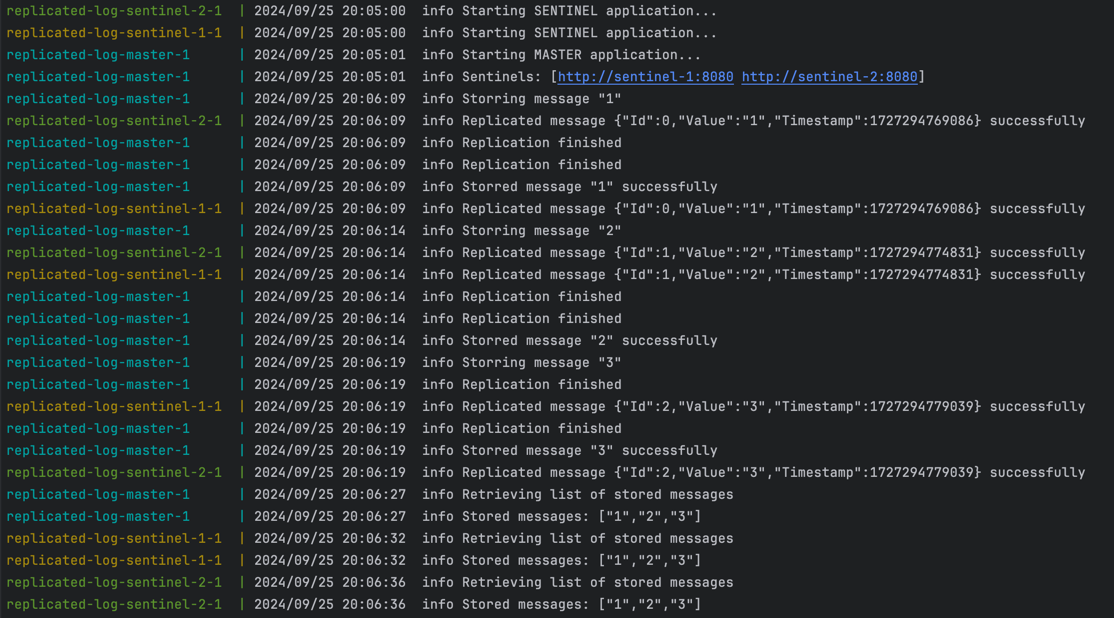
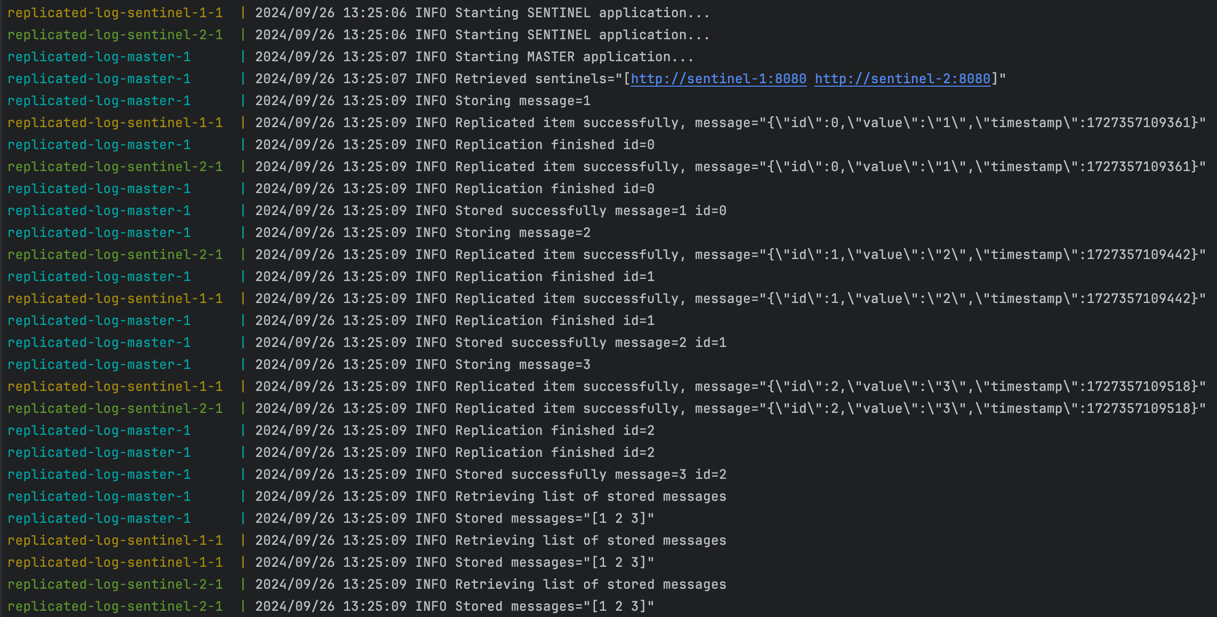
migrated to standard slog

Changed region(s): [[0.0, 0.0, 1.0, 1.0]]

diff --git a/sentinel/router.go b/sentinel/router.go
@@ -2,8 +2,8 @@ package sentinel
 
 import (
 	"encoding/json"
-	"github.com/apex/log"
 	"github.com/gin-gonic/gin"
+	"log/slog"
 )
 
 type Request struct {
@@ -23,19 +23,17 @@ func replicateHandler(c *gin.Context) {
 	err := c.BindJSON(&request)
 
 	if err != nil {
-		log.Errorf("Error while decoding body: %s", err)
+		slog.Error("Error while decoding body.", "error", err)
 		c.JSON(400, gin.H{"error": err.Error()})
 		return
 	}
 
-	//log.Infof("Replicating message %s", string(bodyBytes))
-
 	isDuplicate := sync(request.Id, request.Value, request.Timestamp)
 
 	if isDuplicate {
-		log.Warnf("Duplicate message replication: %s", request)
+		slog.Warn("Duplicate item replication,", "message", request)
 	} else {
-		log.Infof("Replicated message %s successfully", request)
+		slog.Info("Replicated item successfully,", "message", request)
 	}
 
 	c.Status(201)
@@ -44,6 +42,5 @@ func replicateHandler(c *gin.Context) {
 func (r Request) String() string {
 	res, _ := json.Marshal(r)
 
-	//return fmt.Sprintf(`{"id": "%d", "message": "%s", "timestamp": "%d"}`, r.Id, r.Value, r.Timestamp)
 	return string(res)
 }

diff --git a/master/router.go b/master/router.go
@@ -1,8 +1,8 @@
 package master
 
 import (
-	"github.com/apex/log"
 	"github.com/gin-gonic/gin"
+	"log/slog"
 )
 
 type Request struct {
@@ -19,21 +19,21 @@ func insertHandler(c *gin.Context) {
 	err := c.BindJSON(&request)
 
 	if err != nil {
-		log.Errorf("Error while decoding body: %s", err)
+		slog.Error("Error while decoding body.", "error", err)
 		c.JSON(400, gin.H{"error": err.Error()})
 		return
 	}
 
-	log.Infof(`Storring message "%s"`, request.Message)
+	slog.Info(`Storing`, "message", request.Message)
 
-	_, err = storeMessage(request.Message)
-
-	log.Infof(`Storred message "%s" successfully`, request.Message)
+	id, err := storeMessage(request.Message)
 
 	if err != nil {
-		log.Errorf(`Error while storring message "%s"`, err)
+		slog.Error(`Error while storing message.`, "message", request.Message, "error", err)
 		c.JSON(500, gin.H{"error": err.Error()})
-	} else {
-		c.Status(200)
+		return
 	}
+
+	slog.Info("Stored successfully", "message", request.Message, "id", id)
+	c.Status(200)
 }

diff --git a/main.go b/main.go
@@ -1,8 +1,8 @@
 package main
 
 import (
-	"github.com/apex/log"
 	"github.com/gin-gonic/gin"
+	"log/slog"
 	"os"
 	"replicated-log/base"
 	"replicated-log/master"
@@ -27,15 +27,15 @@ func main() {
 
 	switch strings.ToLower(role) {
 	case roleMaster:
-		log.Info("Starting MASTER application...")
+		slog.Info("Starting MASTER application...")
 
 		sentinelAddresses := getSentinelAddresses()
-		log.Infof("Sentinels: %s", sentinelAddresses)
+		slog.Info("Retrieved", "sentinels", sentinelAddresses)
 
 		master.InitLogMasterService(sentinelAddresses)
 		master.InitRouter(router)
 	case roleSentinel:
-		log.Info("Starting SENTINEL application...")
+		slog.Info("Starting SENTINEL application...")
 
 		sentinel.InitRouter(router)
 	}
@@ -46,7 +46,7 @@ func main() {
 	err := router.Run(serveUrl)
 
 	if err != nil {
-		log.Fatalf("Failed to start server: %s", err)
+		slog.Error("Failed to start server.", "error", err)
 	}
 }
 

diff --git a/base/router.go b/base/router.go
@@ -1,8 +1,8 @@
 package base
 
 import (
-	"github.com/apex/log"
 	"github.com/gin-gonic/gin"
+	"log/slog"
 )
 
 func InitRouter(router *gin.Engine) {
@@ -10,11 +10,11 @@ func InitRouter(router *gin.Engine) {
 }
 
 func getAllHandler(c *gin.Context) {
-	log.Info("Retrieving list of stored messages")
+	slog.Info("Retrieving list of stored messages")
 
 	messages := getAll()
 
-	log.Infof("Stored messages: %s", messages)
+	slog.Info("Stored", "messages", messages)
 
 	c.JSON(200, messages)
 }

diff --git a/master/master.go b/master/master.go
@@ -1,7 +1,7 @@
 package master
 
 import (
-	"github.com/apex/log"
+	"log/slog"
 	"replicated-log/repository"
 	"replicated-log/sentinel"
 )
@@ -37,11 +37,11 @@ func storeMessage(msg string) (int, error) {
 	for range service.sentinels {
 		select {
 		case <-resChannel:
-			log.Info("Replication finished")
+			slog.Info("Replication finished", "id", item.Id)
 		case err := <-errChannel:
 			return -1, err
 		}
 	}
 
-	return len(service.sentinels), nil
+	return item.Id, nil
 }

diff --git a/Readme.md b/Readme.md
@@ -19,7 +19,7 @@ For now we assume that all requests to sentinels successful and networks always 
 
 ## Example of work
 ![Example](doc/example_of_work.png)
-*Note: Logs a bit out of order between containers.*
+*Note: Logs may a bit out of order between containers.*
 
 ## How to run locally
 
